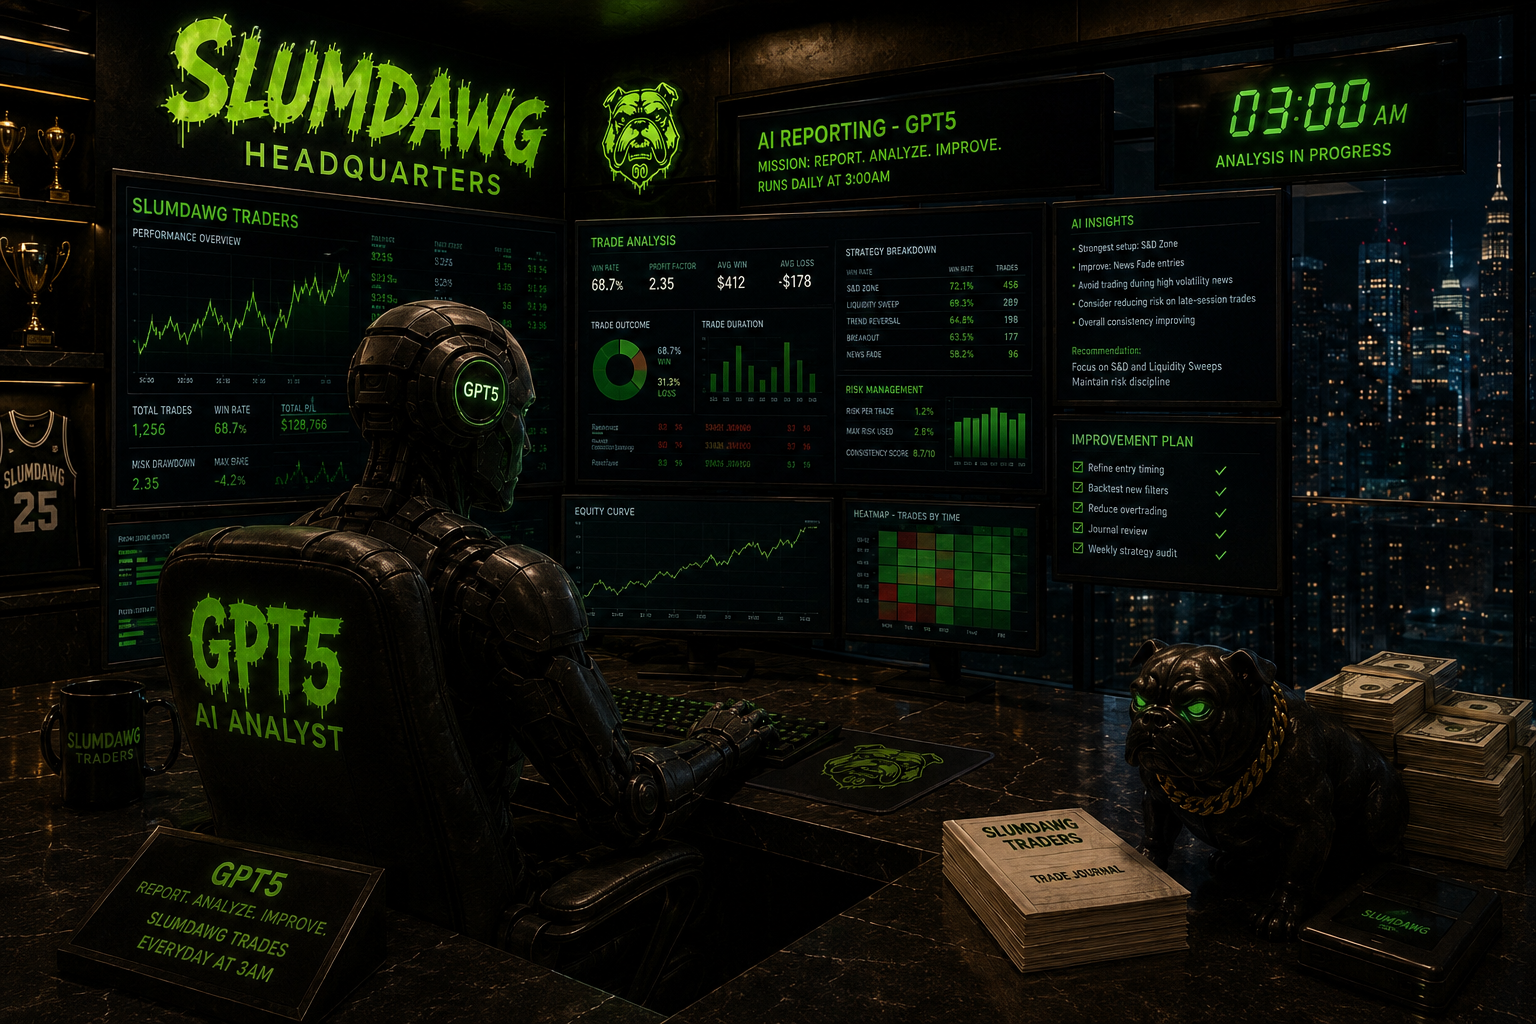
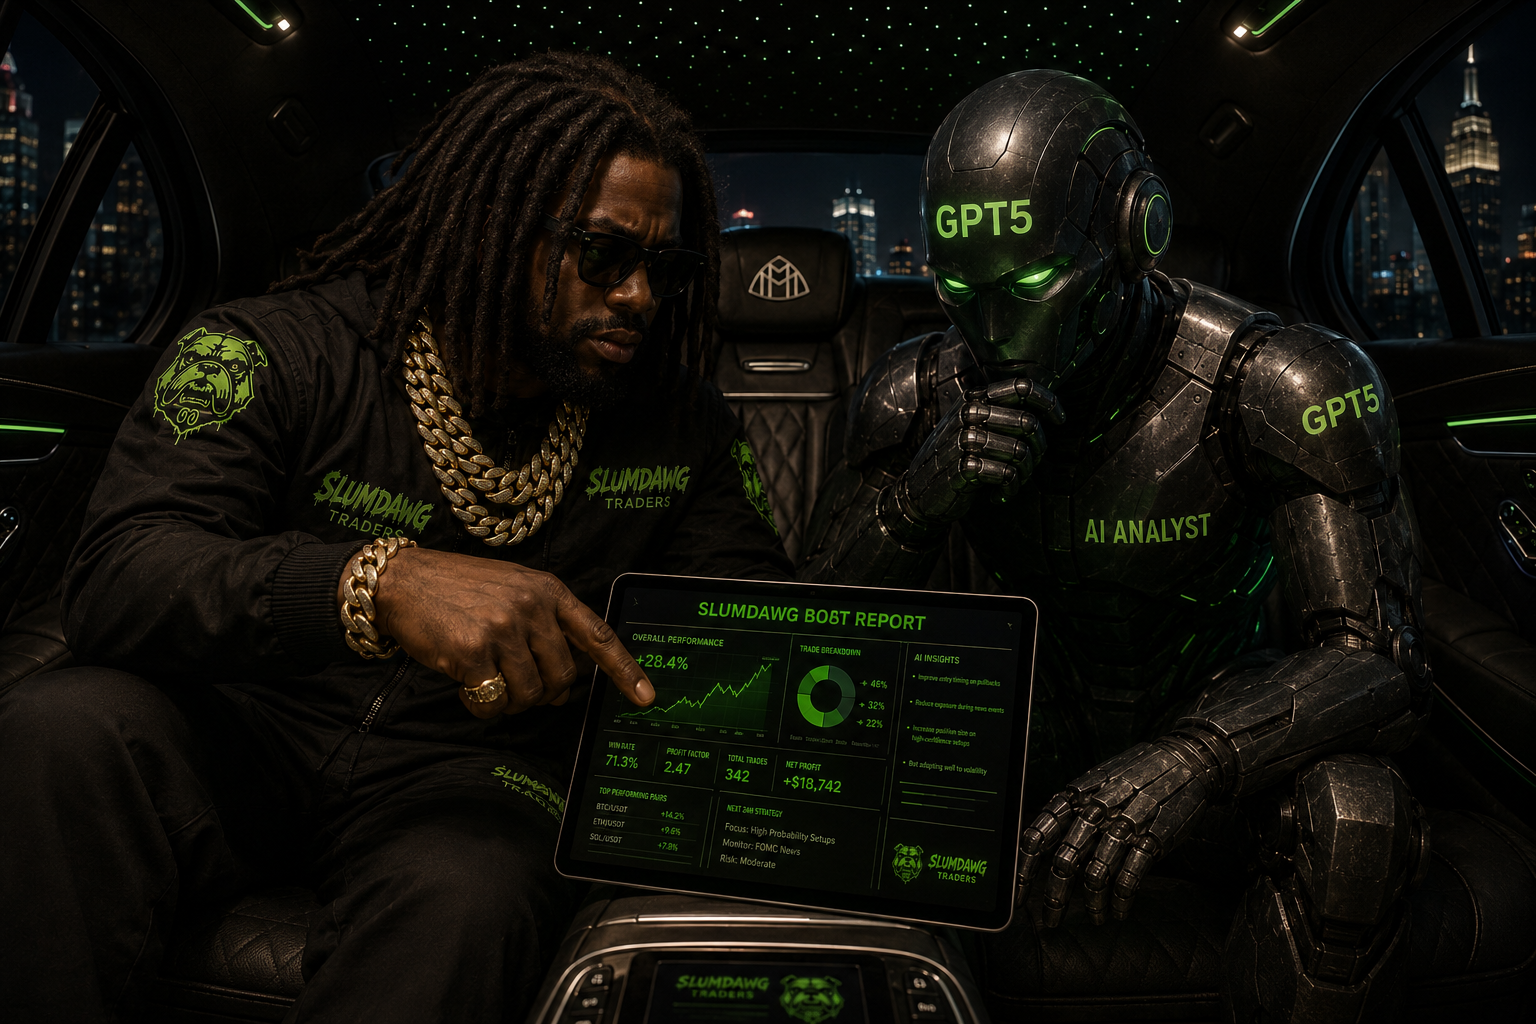
slumhouse-office: swap Reporting Room card cover to the Slumdawg Bot Report render

diff --git a/public/slumhouse/office.html b/public/slumhouse/office.html
@@ -814,7 +814,7 @@
         { id: 'carter', connect: true, eyebrow: 'Your AI', title: 'Carter',
           cover: '/slumhouse/images/carter-cover.png?v=3', connectLabel: 'Connect to Carter' },
         { id: 'reporting', connect: true, eyebrow: 'GPT-5 Analyst', title: 'Reporting Room',
-          cover: '/slumhouse/images/office-reporting.png', connectLabel: 'Enter Room' },
+          cover: '/slumhouse/images/office-reporting.png?v=2', connectLabel: 'Enter Room' },
         { id: 'bot_power', eyebrow: 'Main switch', title: 'Bot Power',
           on: 'The bot makes trades.',
           off: 'The bot stops — no new trades. (Turns RED if it pauses itself for safety; flip ON to resume.)' },
